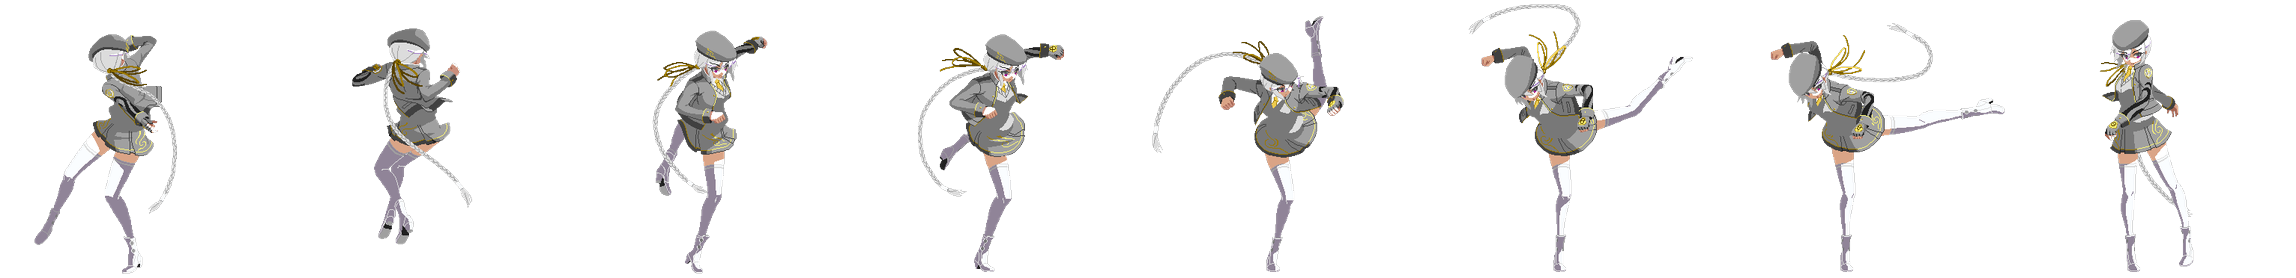
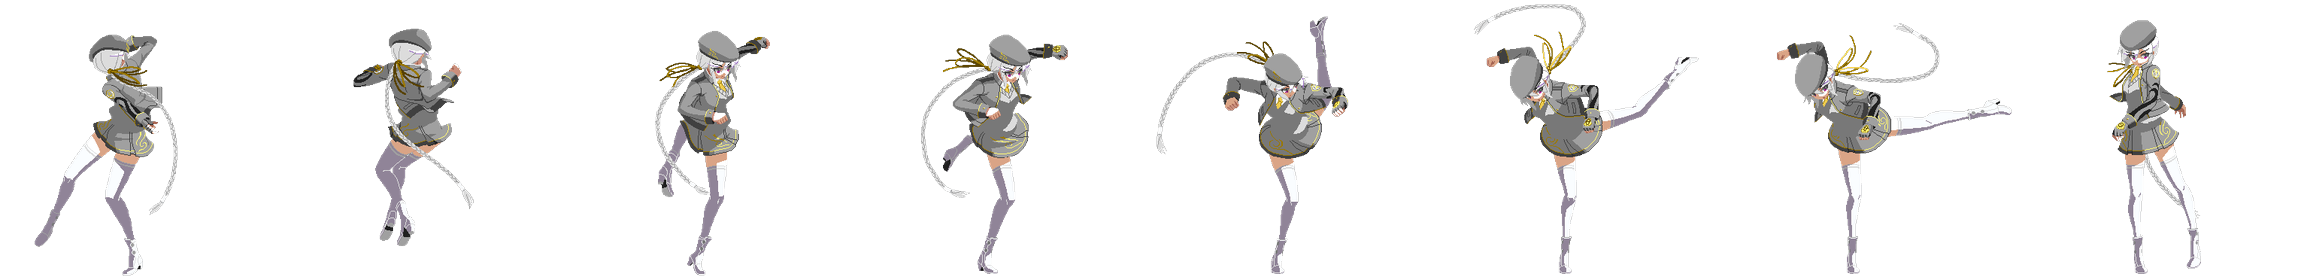
SFFG: fix Sarge sprite drift + real jump frames + sprite cache-busting
The source pack records animations traveling across the canvas (the
character physically walks through the shot), so fixed-box cropping made
the sprite slide inside its cell while the fighter stood still. Movement,
stance and reaction strips are now re-composed with per-frame anchoring:
each frame centered on its own silhouette, feet pinned to its own
baseline (treadmill style). Attack strips keep shared-canvas alignment so
impact geometry stays true; jump/fall keep the shared vertical band.

Jump was a jumping double-fist attack from the unidentified 66-75 block;
the real neutral jump lives in 533-546 (rise 539/541, tuck fall 543/545).

Sprite sheets now load with a version query (sprite.v) so a config change
can never pair with stale cached strips again.

Claude-Session: https://claude.ai/code/session_01ToKNyodTLDquYTFuebZcQU

diff --git a/fight.html b/fight.html
@@ -551,27 +551,27 @@ const CHARACTERS=[
              design verified distinct from any commercial fighter; chroma-keyed,
              cropped and re-composed into strips. Frame mapping identified by
              the owner watching every block animated. See art/sarge/LICENSE.txt */
-    path:'art/sarge/', scale:0.58, smooth:1, idleTop:8,
+    path:'art/sarge/', scale:0.58, smooth:1, idleTop:8, v:4,
     anims:{
-      idle:{f:'idle.png',n:8,cw:163,ch:269,cx:106,fy:264},
-      run:{f:'run.png',n:9,cw:173,ch:267,cx:88,fy:262},
-      walkback:{f:'walkback.png',n:7,cw:124,ch:268,cx:59,fy:262},
-      dash:{f:'dash.png',n:8,cw:256,ch:190,cx:129,fy:185},
-      backdash:{f:'backdash.png',n:6,cw:216,ch:270,cx:121,fy:265},
-      jump:{f:'jump.png',n:2,cw:194,ch:267,cx:96,fy:262},
-      fall:{f:'fall.png',n:2,cw:163,ch:300,cx:76,fy:295},
-      attack1:{f:'attack1.png',n:6,cw:252,ch:258,cx:115,fy:252},
-      attack2:{f:'attack2.png',n:8,cw:287,ch:278,cx:105,fy:273},
-      special:{f:'special.png',n:8,cw:269,ch:280,cx:156,fy:274},
-      super:{f:'super.png',n:9,cw:273,ch:323,cx:78,fy:317},
-      clight:{f:'clight.png',n:6,cw:274,ch:176,cx:93,fy:171},
-      cheavy:{f:'cheavy.png',n:7,cw:261,ch:206,cx:138,fy:200},
-      airatk:{f:'airatk.png',n:6,cw:323,ch:266,cx:158,fy:260},
-      hit:{f:'hit.png',n:4,cw:202,ch:268,cx:59,fy:262},
-      block:{f:'block.png',n:4,cw:213,ch:266,cx:110,fy:261},
-      death:{f:'death.png',n:6,cw:320,ch:249,cx:135,fy:244},
-      getup:{f:'getup.png',n:5,cw:241,ch:168,cx:120,fy:162},
-      crouch:{f:'crouch.png',n:4,cw:140,ch:268,cx:61,fy:262}
+      idle:{f:'idle.png',n:8,cw:115,ch:270,cx:57,fy:265},
+      run:{f:'run.png',n:9,cw:141,ch:268,cx:70,fy:263},
+      walkback:{f:'walkback.png',n:7,cw:120,ch:270,cx:60,fy:265},
+      dash:{f:'dash.png',n:8,cw:257,ch:191,cx:128,fy:186},
+      backdash:{f:'backdash.png',n:6,cw:190,ch:272,cx:95,fy:267},
+      jump:{f:'jump.png',n:2,cw:179,ch:261,cx:89,fy:256},
+      fall:{f:'fall.png',n:2,cw:209,ch:224,cx:104,fy:219},
+      attack1:{f:'attack1.png',n:6,cw:253,ch:259,cx:116,fy:253},
+      attack2:{f:'attack2.png',n:8,cw:288,ch:280,cx:105,fy:275},
+      special:{f:'special.png',n:8,cw:270,ch:282,cx:157,fy:276},
+      super:{f:'super.png',n:9,cw:275,ch:324,cx:78,fy:319},
+      clight:{f:'clight.png',n:6,cw:276,ch:177,cx:93,fy:172},
+      cheavy:{f:'cheavy.png',n:7,cw:262,ch:207,cx:139,fy:202},
+      airatk:{f:'airatk.png',n:6,cw:325,ch:267,cx:158,fy:262},
+      hit:{f:'hit.png',n:4,cw:184,ch:269,cx:92,fy:264},
+      block:{f:'block.png',n:4,cw:203,ch:267,cx:101,fy:262},
+      death:{f:'death.png',n:6,cw:264,ch:206,cx:132,fy:201},
+      getup:{f:'getup.png',n:5,cw:242,ch:166,cx:121,fy:161},
+      crouch:{f:'crouch.png',n:4,cw:139,ch:268,cx:69,fy:263}
     }
   },
   moves:{
@@ -597,7 +597,7 @@ function loadSprites(c){
     const im=new Image();
     im.onload=()=>{if(--left===0&&!failed)sp._st='ready';};
     im.onerror=()=>{failed=true;sp._st='failed';console.warn('[fight] sprite sheet failed to load:',sp.path+sp.anims[k].f);};
-    im.src=sp.path+sp.anims[k].f;
+    im.src=sp.path+sp.anims[k].f+(sp.v?'?v='+sp.v:'');   // version-bust stale caches
     sp.imgs[k]=im;
   }
 }
